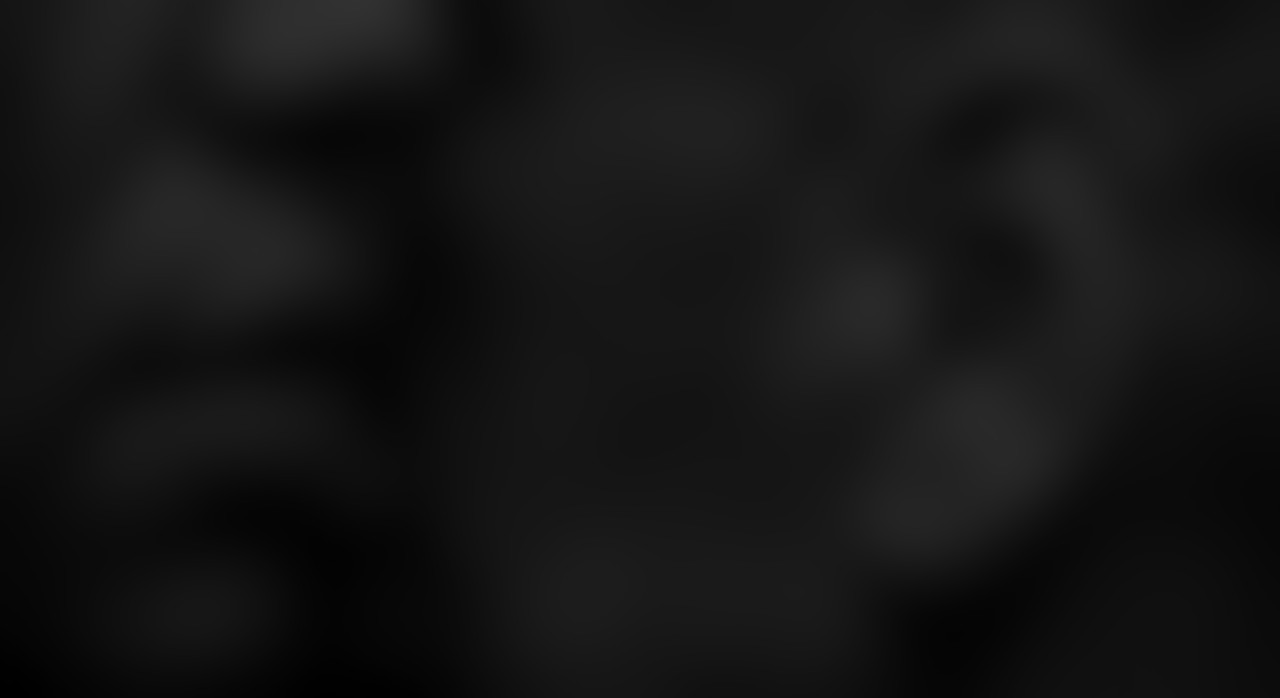
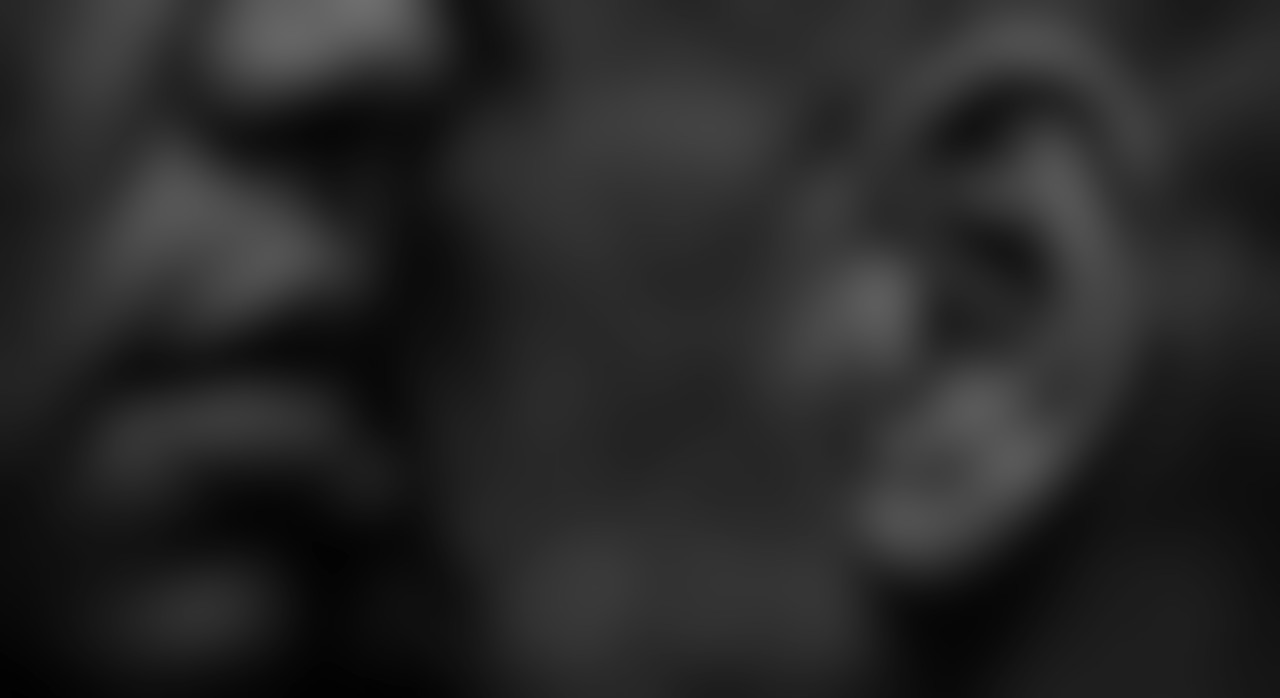
Hacer visible la foto del hero: las palabras pasan a color papel
Con el texto en naranja la foto no podía verse. El naranja sobre oscuro
topa en 3:1 con el fondo en gris 56; a gris 80 ya cae a 2,07:1. Por eso
había que oscurecer la imagen hasta hacerla desaparecer.

Con las palabras en color papel el techo sube a gris 110 manteniendo
4,5:1, el doble de claridad para la foto y mejor contraste que cualquier
variante en naranja.

- escuchar-fondo.jpg regenerado con ese techo: medio gris 40, máximo 110.
- Medido sobre el render, descartando el antialias de las letras:
  12,41:1 de media y 5,88:1 contra el punto más claro del fondo.
- Probada antes la vía de la imagen muy transparente sobre papel claro:
  inviable. El naranja sobre papel ya está en 3,45:1 y con solo un 4% de
  la foto cae a 3,15:1.

Claude-Session: https://claude.ai/code/session_01GWXeKL5z9JxnwyFmf5F329

diff --git a/mal-marketing/index.html b/mal-marketing/index.html
@@ -106,6 +106,10 @@ section{position:relative}
   padding:clamp(16px,2.6vh,38px) var(--gut) clamp(20px,3.2vh,46px);
   background:#0A0A0A url('assets/escuchar-fondo.jpg') center/cover no-repeat;
 }
+/* Las dos palabras van en color papel, no en naranja: sobre la foto el
+   naranja topa en 3:1 y obliga a oscurecerla hasta hacerla desaparecer.
+   En papel el fondo puede verse y el texto sube a 4,5:1 en su peor punto. */
+.hero-type .disp{color:var(--paper)}
 /* La segunda línea va entera: el eco se lee, no se recorta */
 .disp-cut{display:block;width:100%}
 .disp{
